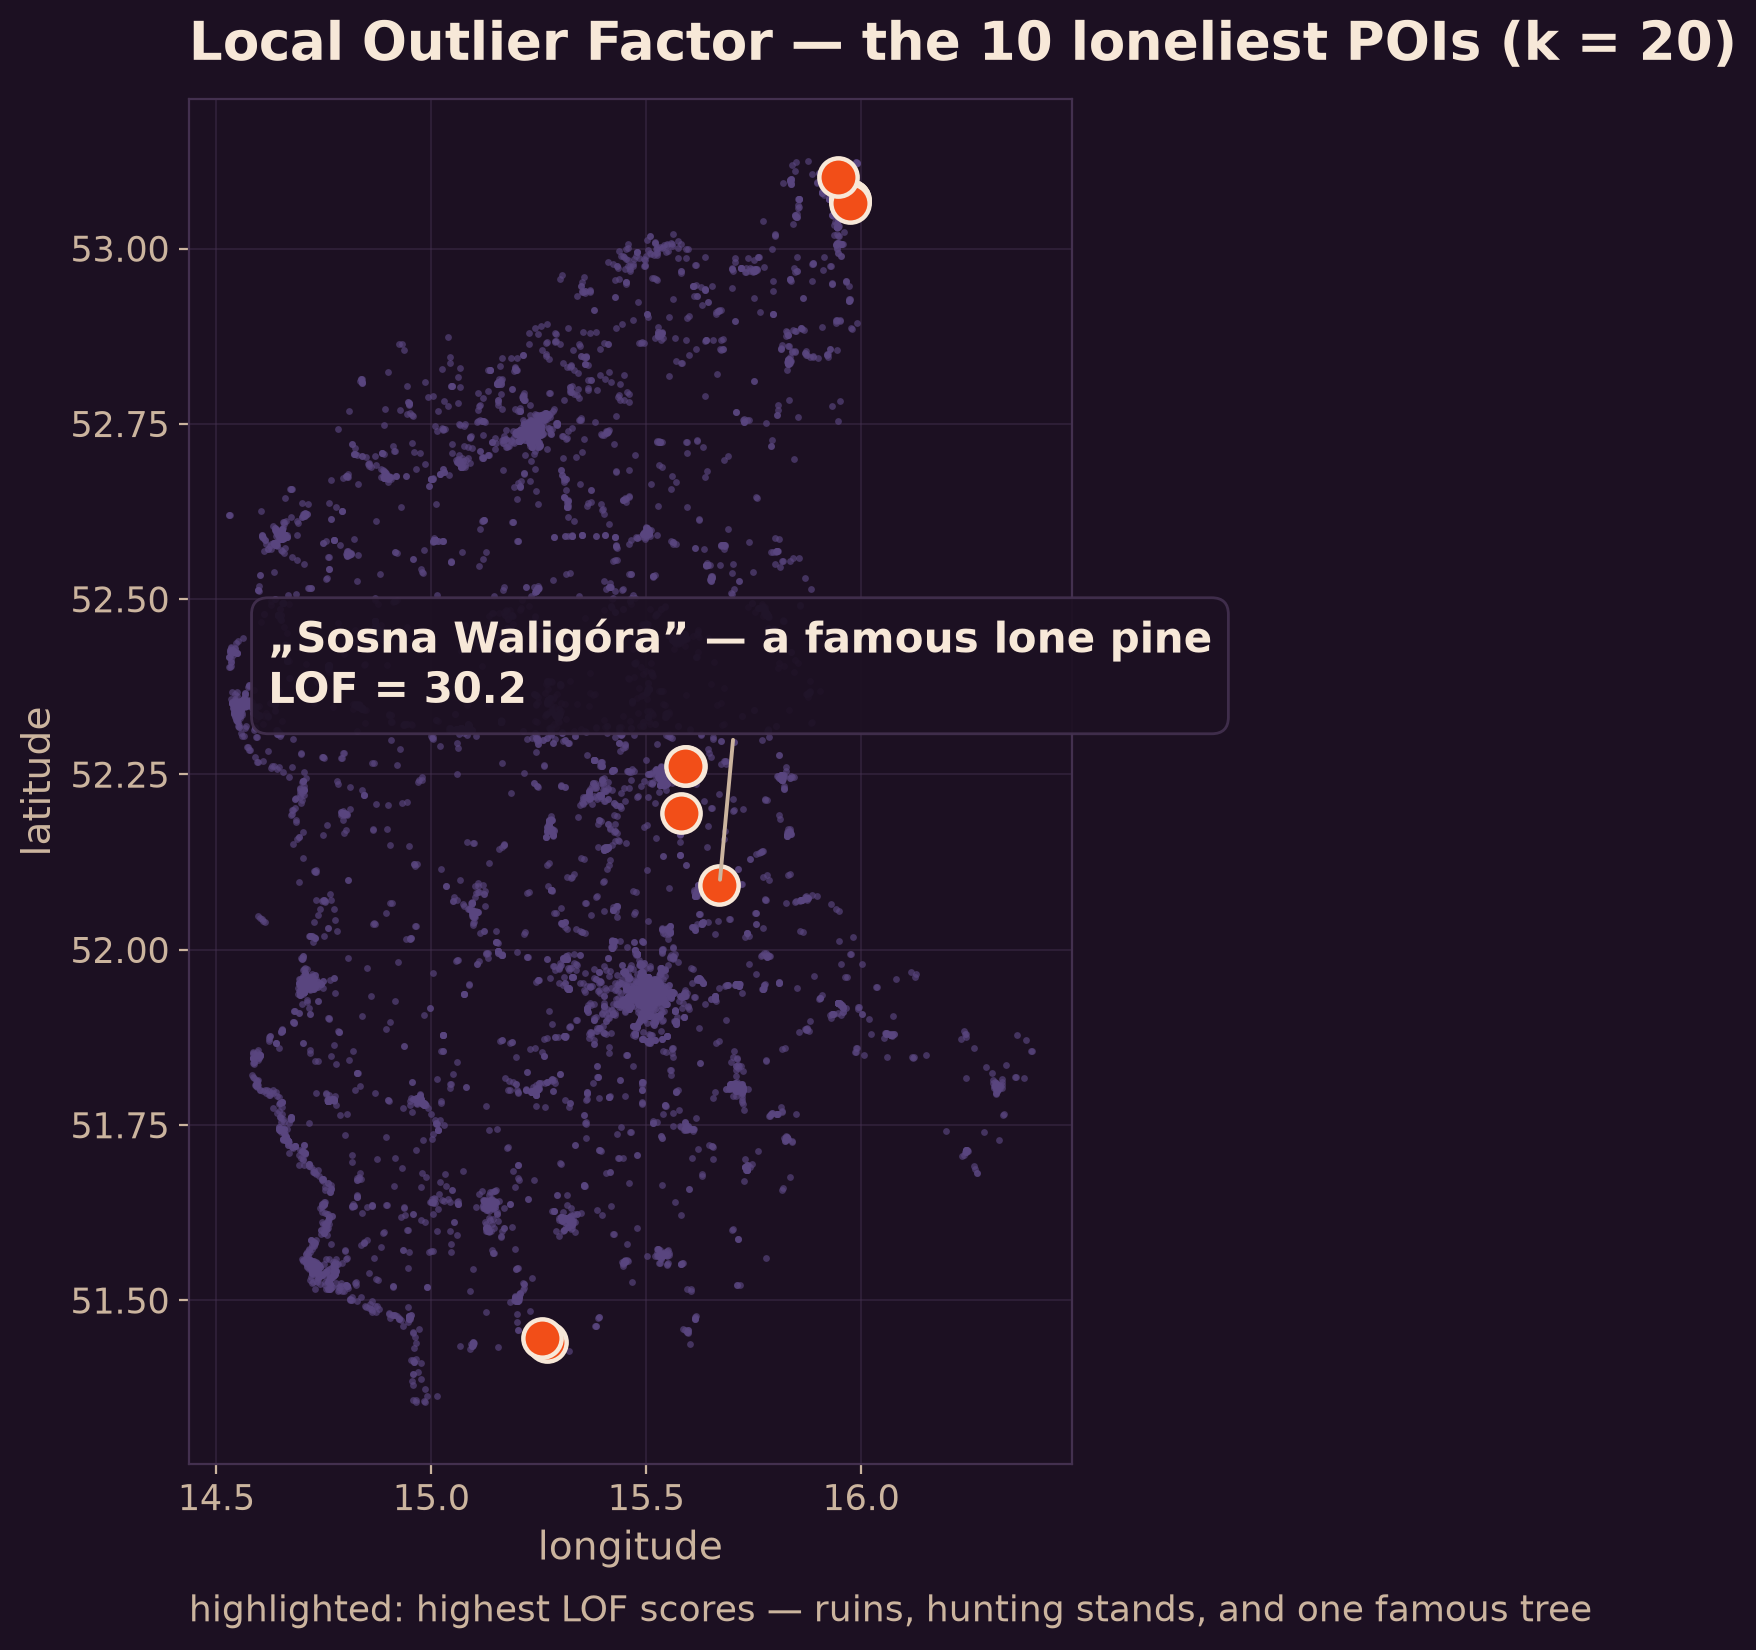
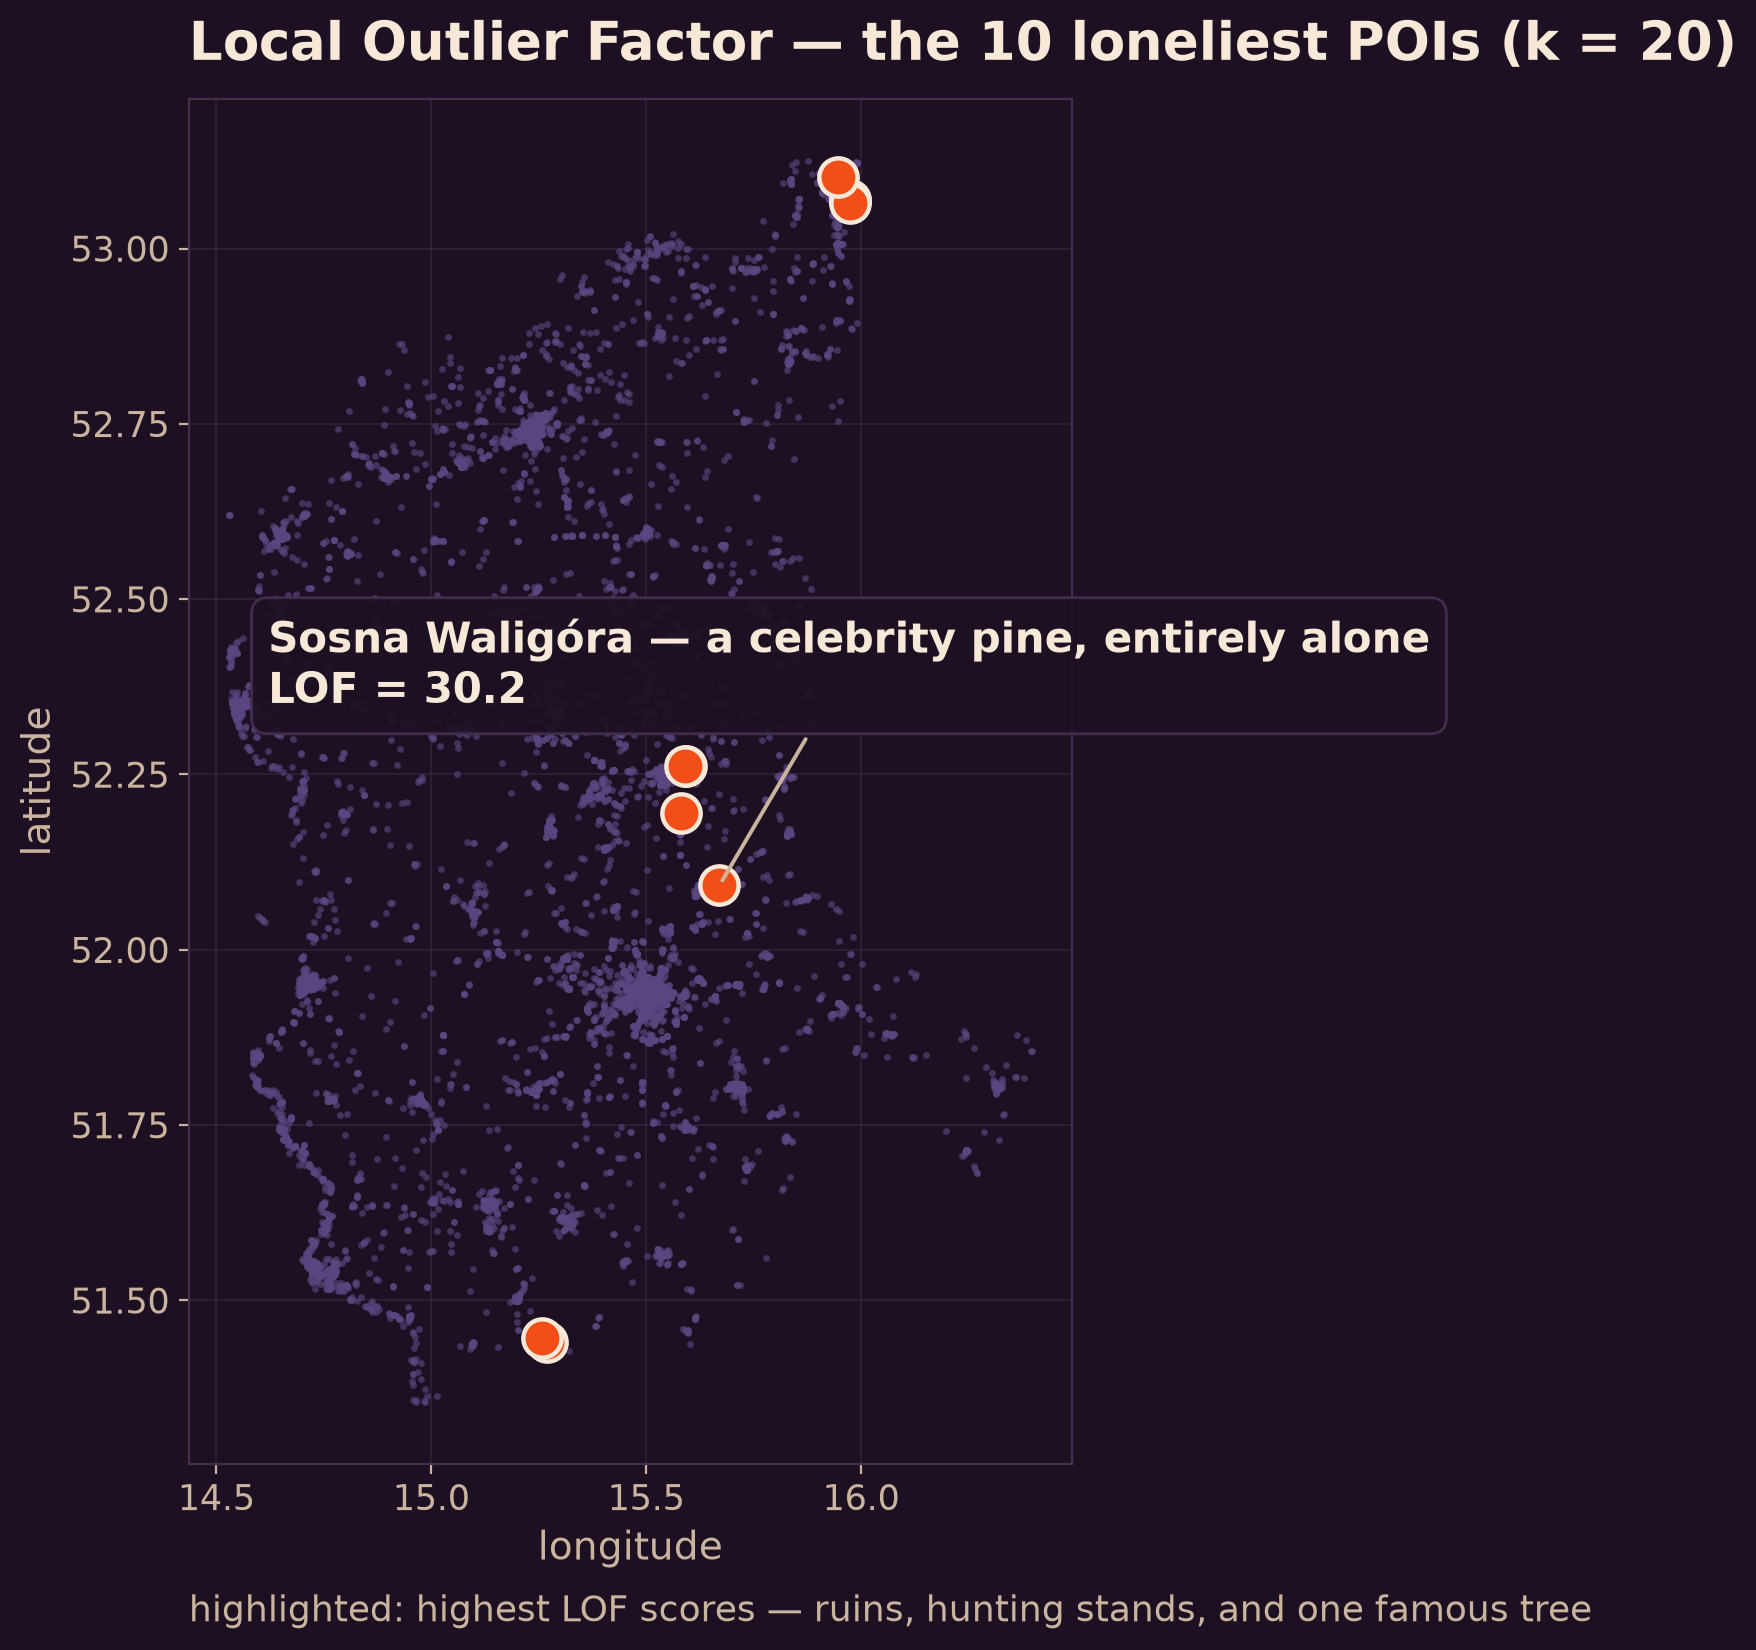
[DOCS] Refine the Waligora pine description and note the dataset provenance
Correct the tree's claim to fame (girth, not isolation - it was long billed as Poland's thickest pine and stands alone near Sulechow), drop the Polish typographic quotes from prose and the figure annotation, and credit the Lubusz sample data as PMC member Pawel's hometown region.

Changed region(s): [[0.1538, 0.3709, 0.8303, 0.4018], [0.3998, 0.4945, 0.4305, 0.5255]]

diff --git a/docs/blog/posts/spatial-stats.md b/docs/blog/posts/spatial-stats.md
@@ -19,7 +19,7 @@ Anyone can look at a map and see clumps. The interesting questions are the ones 
 
 Sedona ships a spatial statistics module — `sedona.stats` — that answers those questions as DataFrame operations: **Moran's I** for global autocorrelation, **Getis-Ord Gi\*** for hotspot significance, **DBSCAN** for density clustering, and **Local Outlier Factor** for spatial anomalies. The classic exploratory-spatial-analysis toolkit, running distributed.
 
-This post works through all four as one investigation, on a dataset that ships in the Sedona repo: **12,873 OpenStreetMap points of interest** from western Poland (the Lubusz region), loaded straight from the bundled shapefile:
+This post works through all four as one investigation, on a dataset that ships in the Sedona repo: **12,873 OpenStreetMap points of interest** from western Poland's Lubusz region — the hometown region of Sedona PMC member Pawel, which is how a slice of Poland became the project's sample data. Loaded straight from the bundled shapefile:
 
 ```python
 from sedona.spark import SedonaContext
@@ -129,9 +129,9 @@ lof.orderBy("lof", ascending=False).select("fclass", "name", "lof").show(5)
 +-------------+----------------+-----+
 ```
 
-![The ten highest-LOF points highlighted against the dimmed dataset — isolated ruins, hunting stands, and one famous lone pine tree](spatial-stats-outliers.png)
+![The ten highest-LOF points highlighted against the dimmed dataset — isolated ruins, hunting stands, and one celebrity pine](spatial-stats-outliers.png)
 
-The algorithm has no idea what these features are — and it independently surfaced ruins in the forest, hunting stands, a roadside motel, and **„Sosna Waligóra", a monumental pine tree famous precisely for standing alone**. When your outlier detector rediscovers a landmark whose claim to fame is isolation, it's working.
+The algorithm has no idea what these features are — and it independently surfaced ruins in the forest, hunting stands, a roadside motel, and **Sosna Waligóra**: a celebrity pine near Sulechów with a six-metre waistline, long billed as the thickest in Poland, holding court entirely alone beside a country road. The detector's verdict, in effect: *this tree has no neighbors*. Correct — and when your outlier detector independently rediscovers a beloved national monument whose whole scene is standing alone, it's working.
 
 ## The same code at any scale
 
